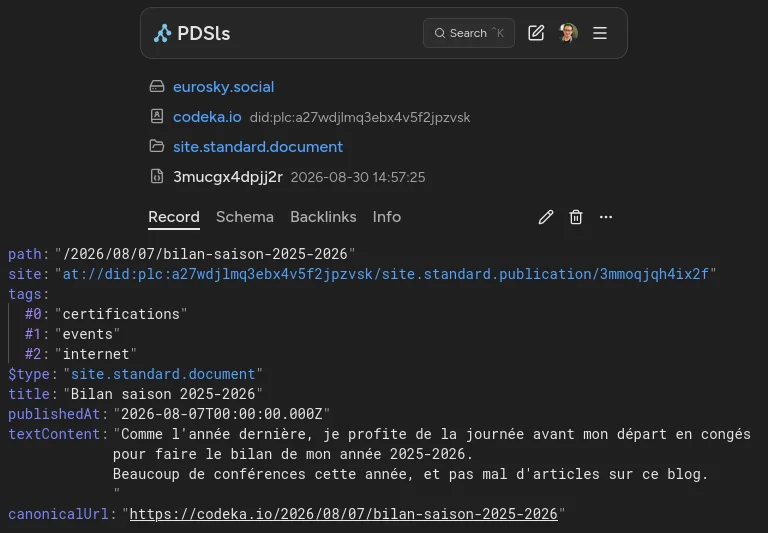
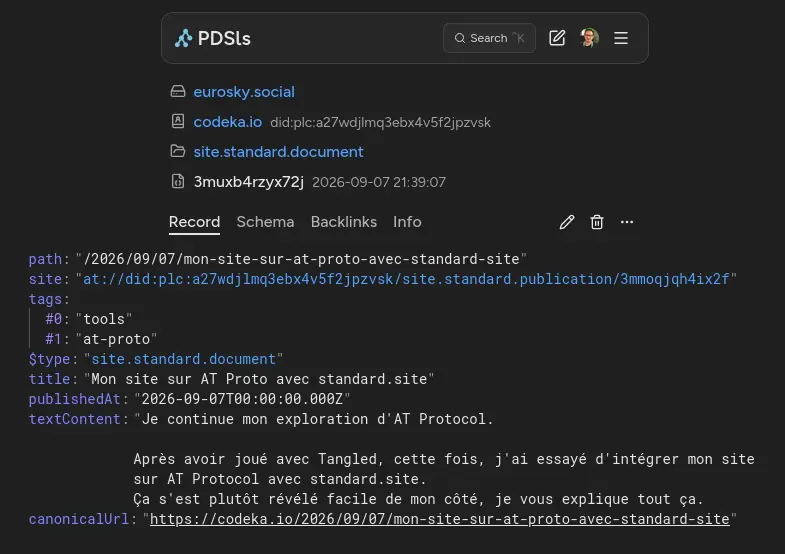
🍱 : update screenshots with latest article data

diff --git a/content/posts/2026/2026-09-07-mon-site-sur-at-proto-avec-standard-site/index.md b/content/posts/2026/2026-09-07-mon-site-sur-at-proto-avec-standard-site/index.md
@@ -351,17 +351,13 @@ J'exécute ensuite `sequoia publish` pour générer les _Documents_ et les publi
 Lors de la publication, `sequoia` va également injecter l'URI du _Document_ publié dans le Frontmatter de mon post, dans un attribut `atUri`.
 
 ```yaml
----
-date: 2026-08-07
-language: fr
-title: Bilan saison 2025-2026
-slug: bilan-saison-2025-2026
+date: 2026-09-07
+title: "Mon site sur AT Proto avec standard.site"
+slug: mon-site-sur-at-proto-avec-standard-site
 tags:
-  - certifications
-  - events
-  - internet
-atUri: "at://did:plc:a27wdjlmq3ebx4v5f2jpzvsk/site.standard.document/3mucgx4dpjj2r"
----
+  - tools
+  - at-proto
+atUri: "at://did:plc:a27wdjlmq3ebx4v5f2jpzvsk/site.standard.document/3muxb4rzyx72j"
 ```
 
 Cet attribut peut ensuite être utilisé pour générer une balise `link` à déposer
@@ -378,8 +374,6 @@ J'ai choisi la deuxième option, en modifiant mon `layout/meta.html` pour y ajou
 ```
 
 > Cette injection implique que la publication se fait en 2 étapes. On publie le _Document_ sur le PDS en premier, puis l'article sur le site web avec l'URI AT Proto pour créer le lien inverse.
-
-[//]: # (TODO options sur le post, contenu, etc)
 
 ### Vérification
 
@@ -462,7 +456,7 @@ Plutôt cool.
 Bluesky a aussi annoncé supporter _standard.site_, lorsqu'un post référence une page web déclarée dans un _Document_, [Bluesky affiche une carte](https://atproto.com/blog/standard-site-bluesky-timeline) avec un format spécifique, affichant la _Publication_ et l'auteur.
 C'est ce genre d'intégration qui est vraiment intéressant je trouve.
 
-[//]: # (TODO screen bluesky)
+![bluesky-standard-site](bluesky-standard-site.webp)
 
 ## Conclusion
 
